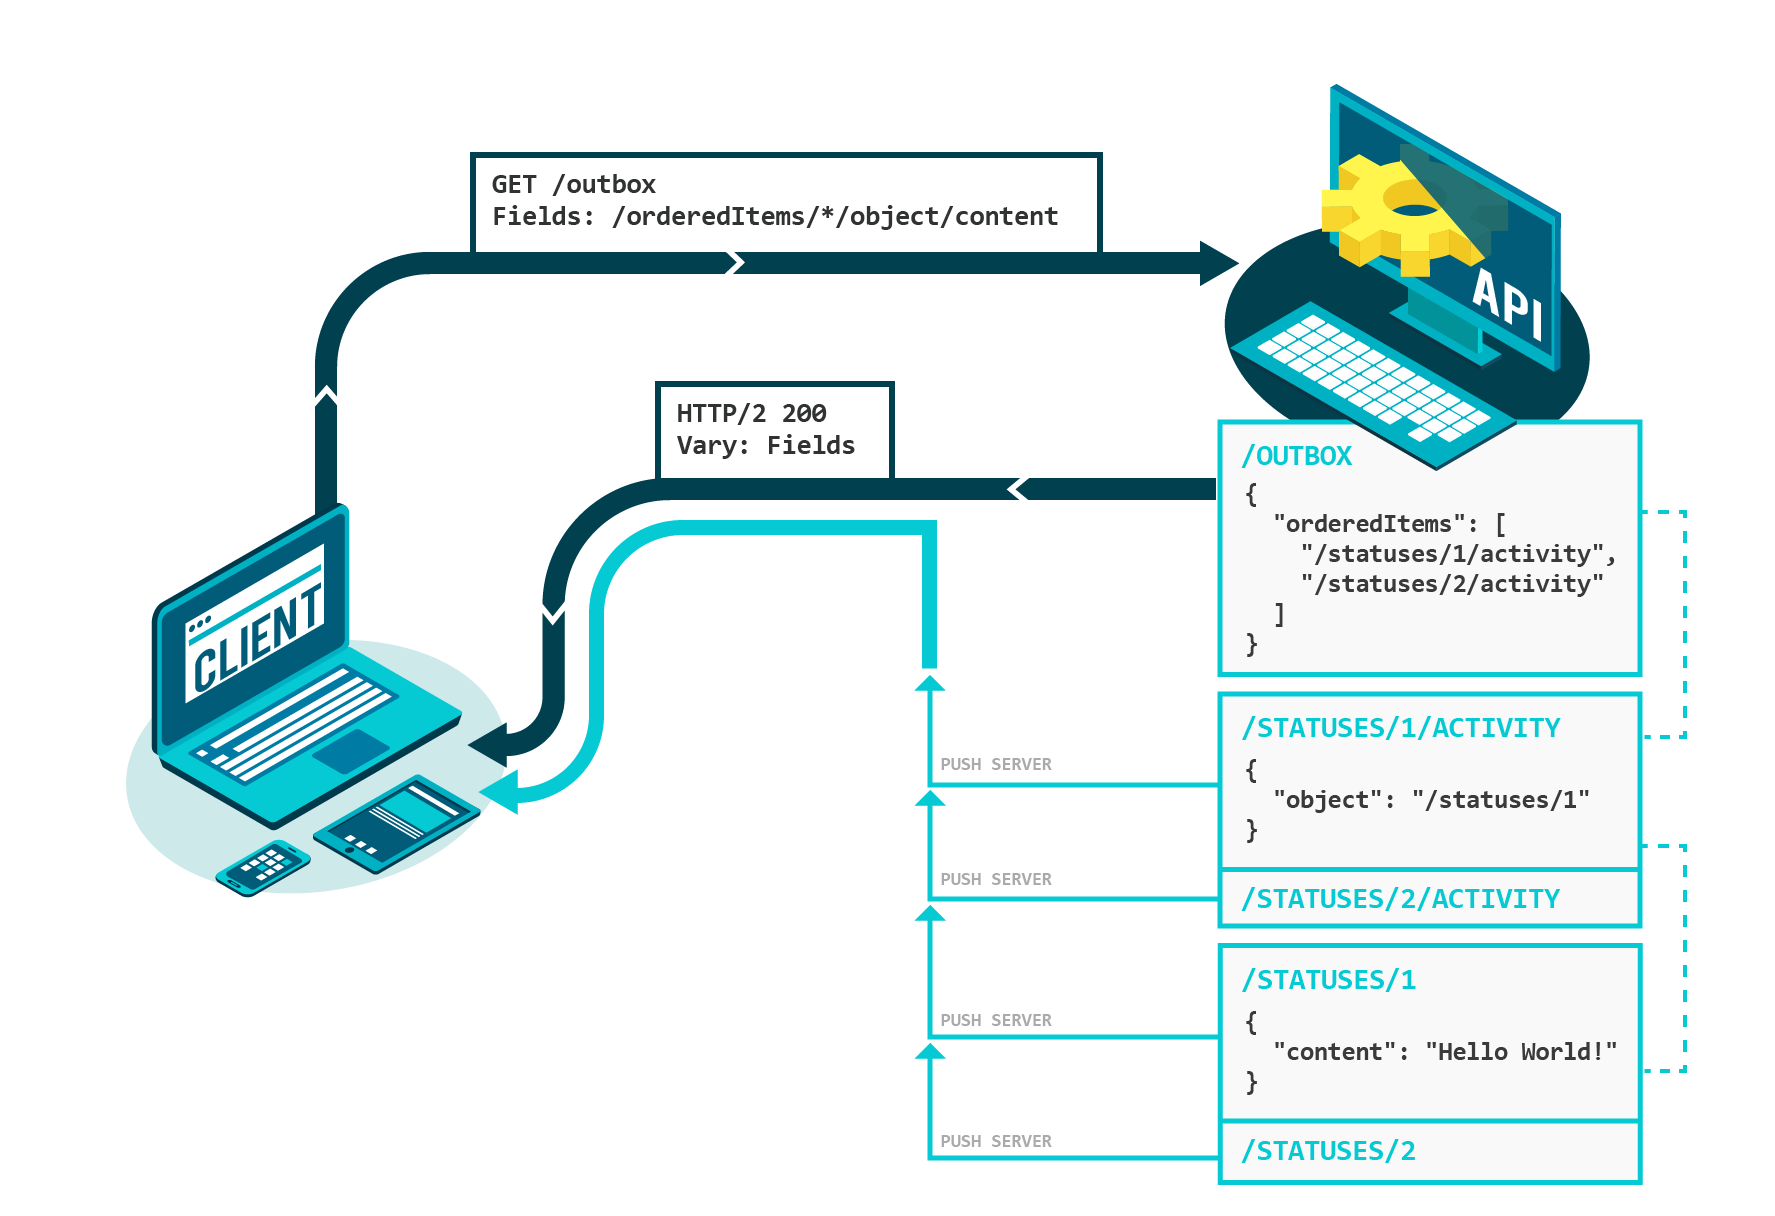
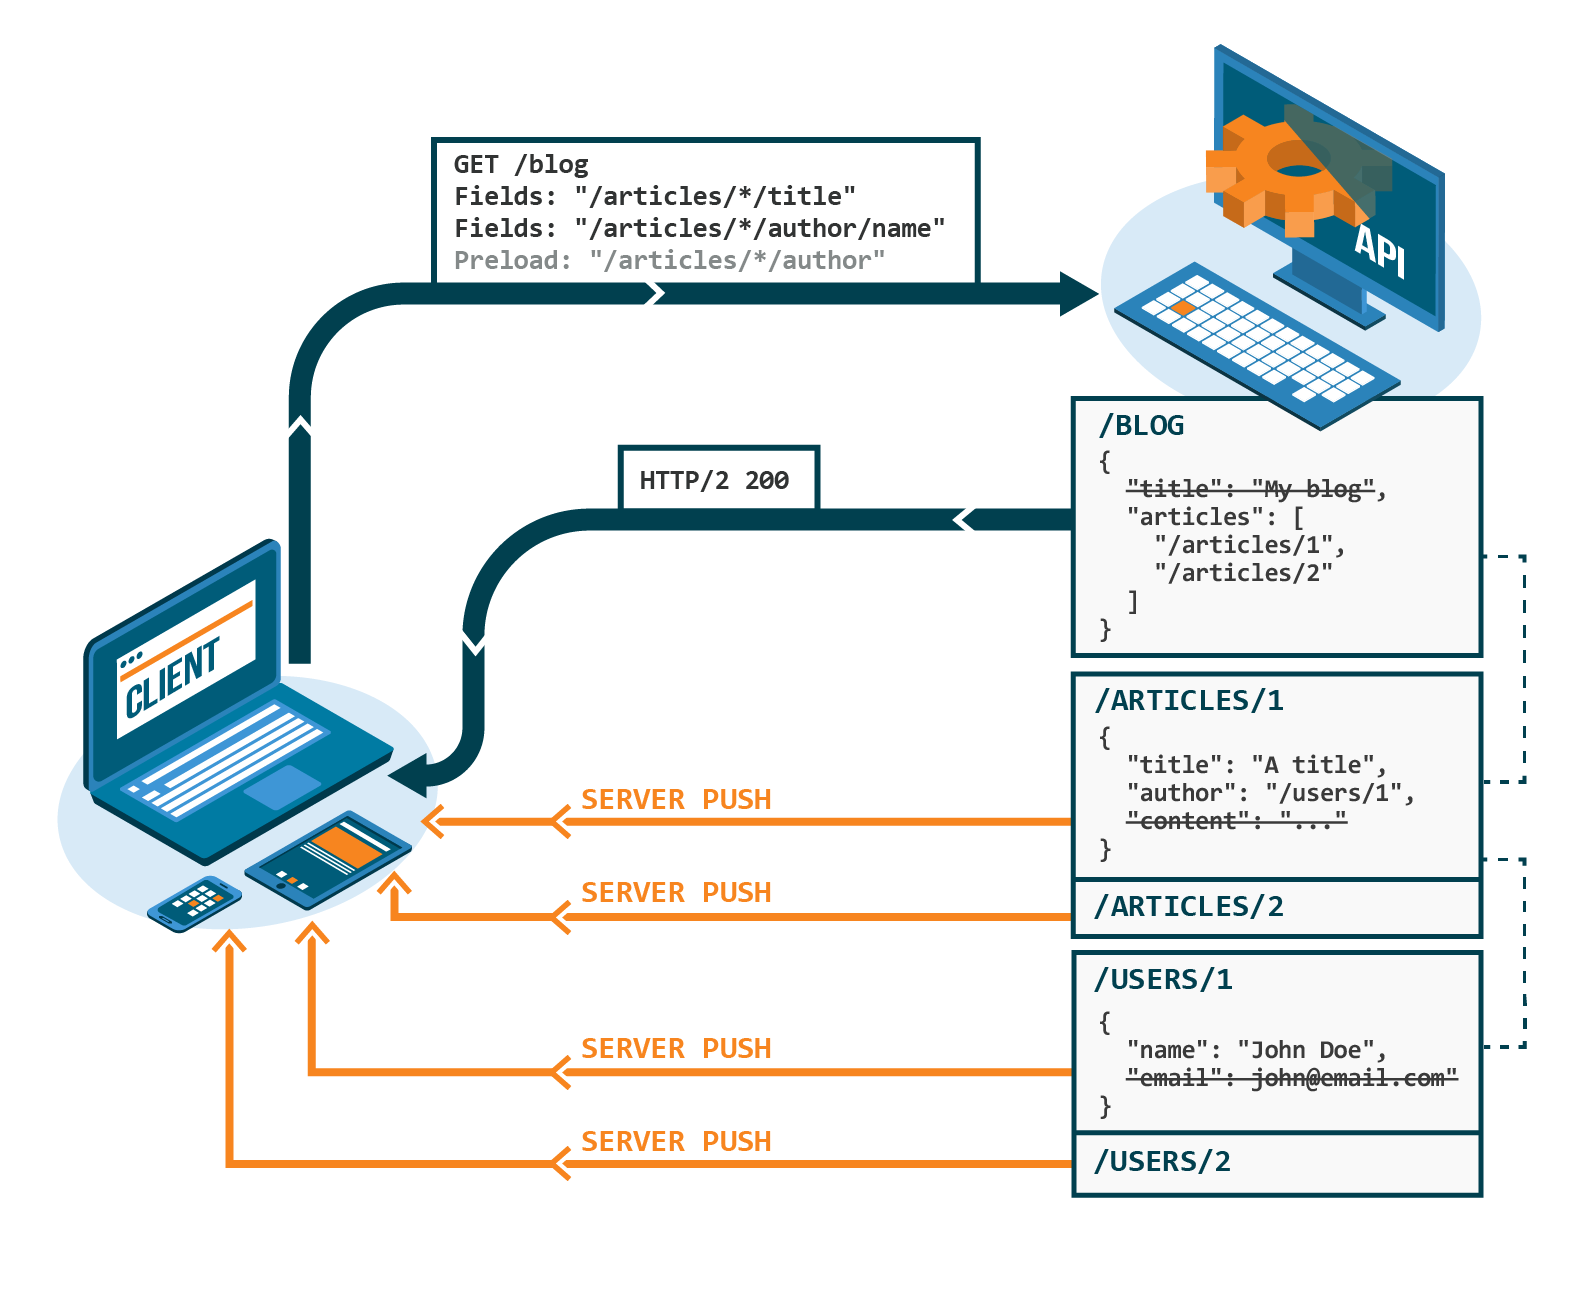
feat: update schema colors

Changed region(s): [[0.0312, 0.0312, 0.9681, 1.0]]

diff --git a/README.md b/README.md
@@ -11,7 +11,7 @@ It supports [hypermedia APIs](https://restfulapi.net/hateoas/) but also any "leg
 [![codecov](https://codecov.io/gh/dunglas/vulcain/branch/master/graph/badge.svg)](https://codecov.io/gh/dunglas/vulcain)
 [![Go Report Card](https://goreportcard.com/badge/github.com/dunglas/vulcain)](https://goreportcard.com/report/github.com/dunglas/vulcain)
 
-![Vulcain Schema](schemas/preload+fields-header.png)
+![Vulcain Schema](schemas/fields-header.png)
 
 Grab What You Need... Burn The REST!
 
